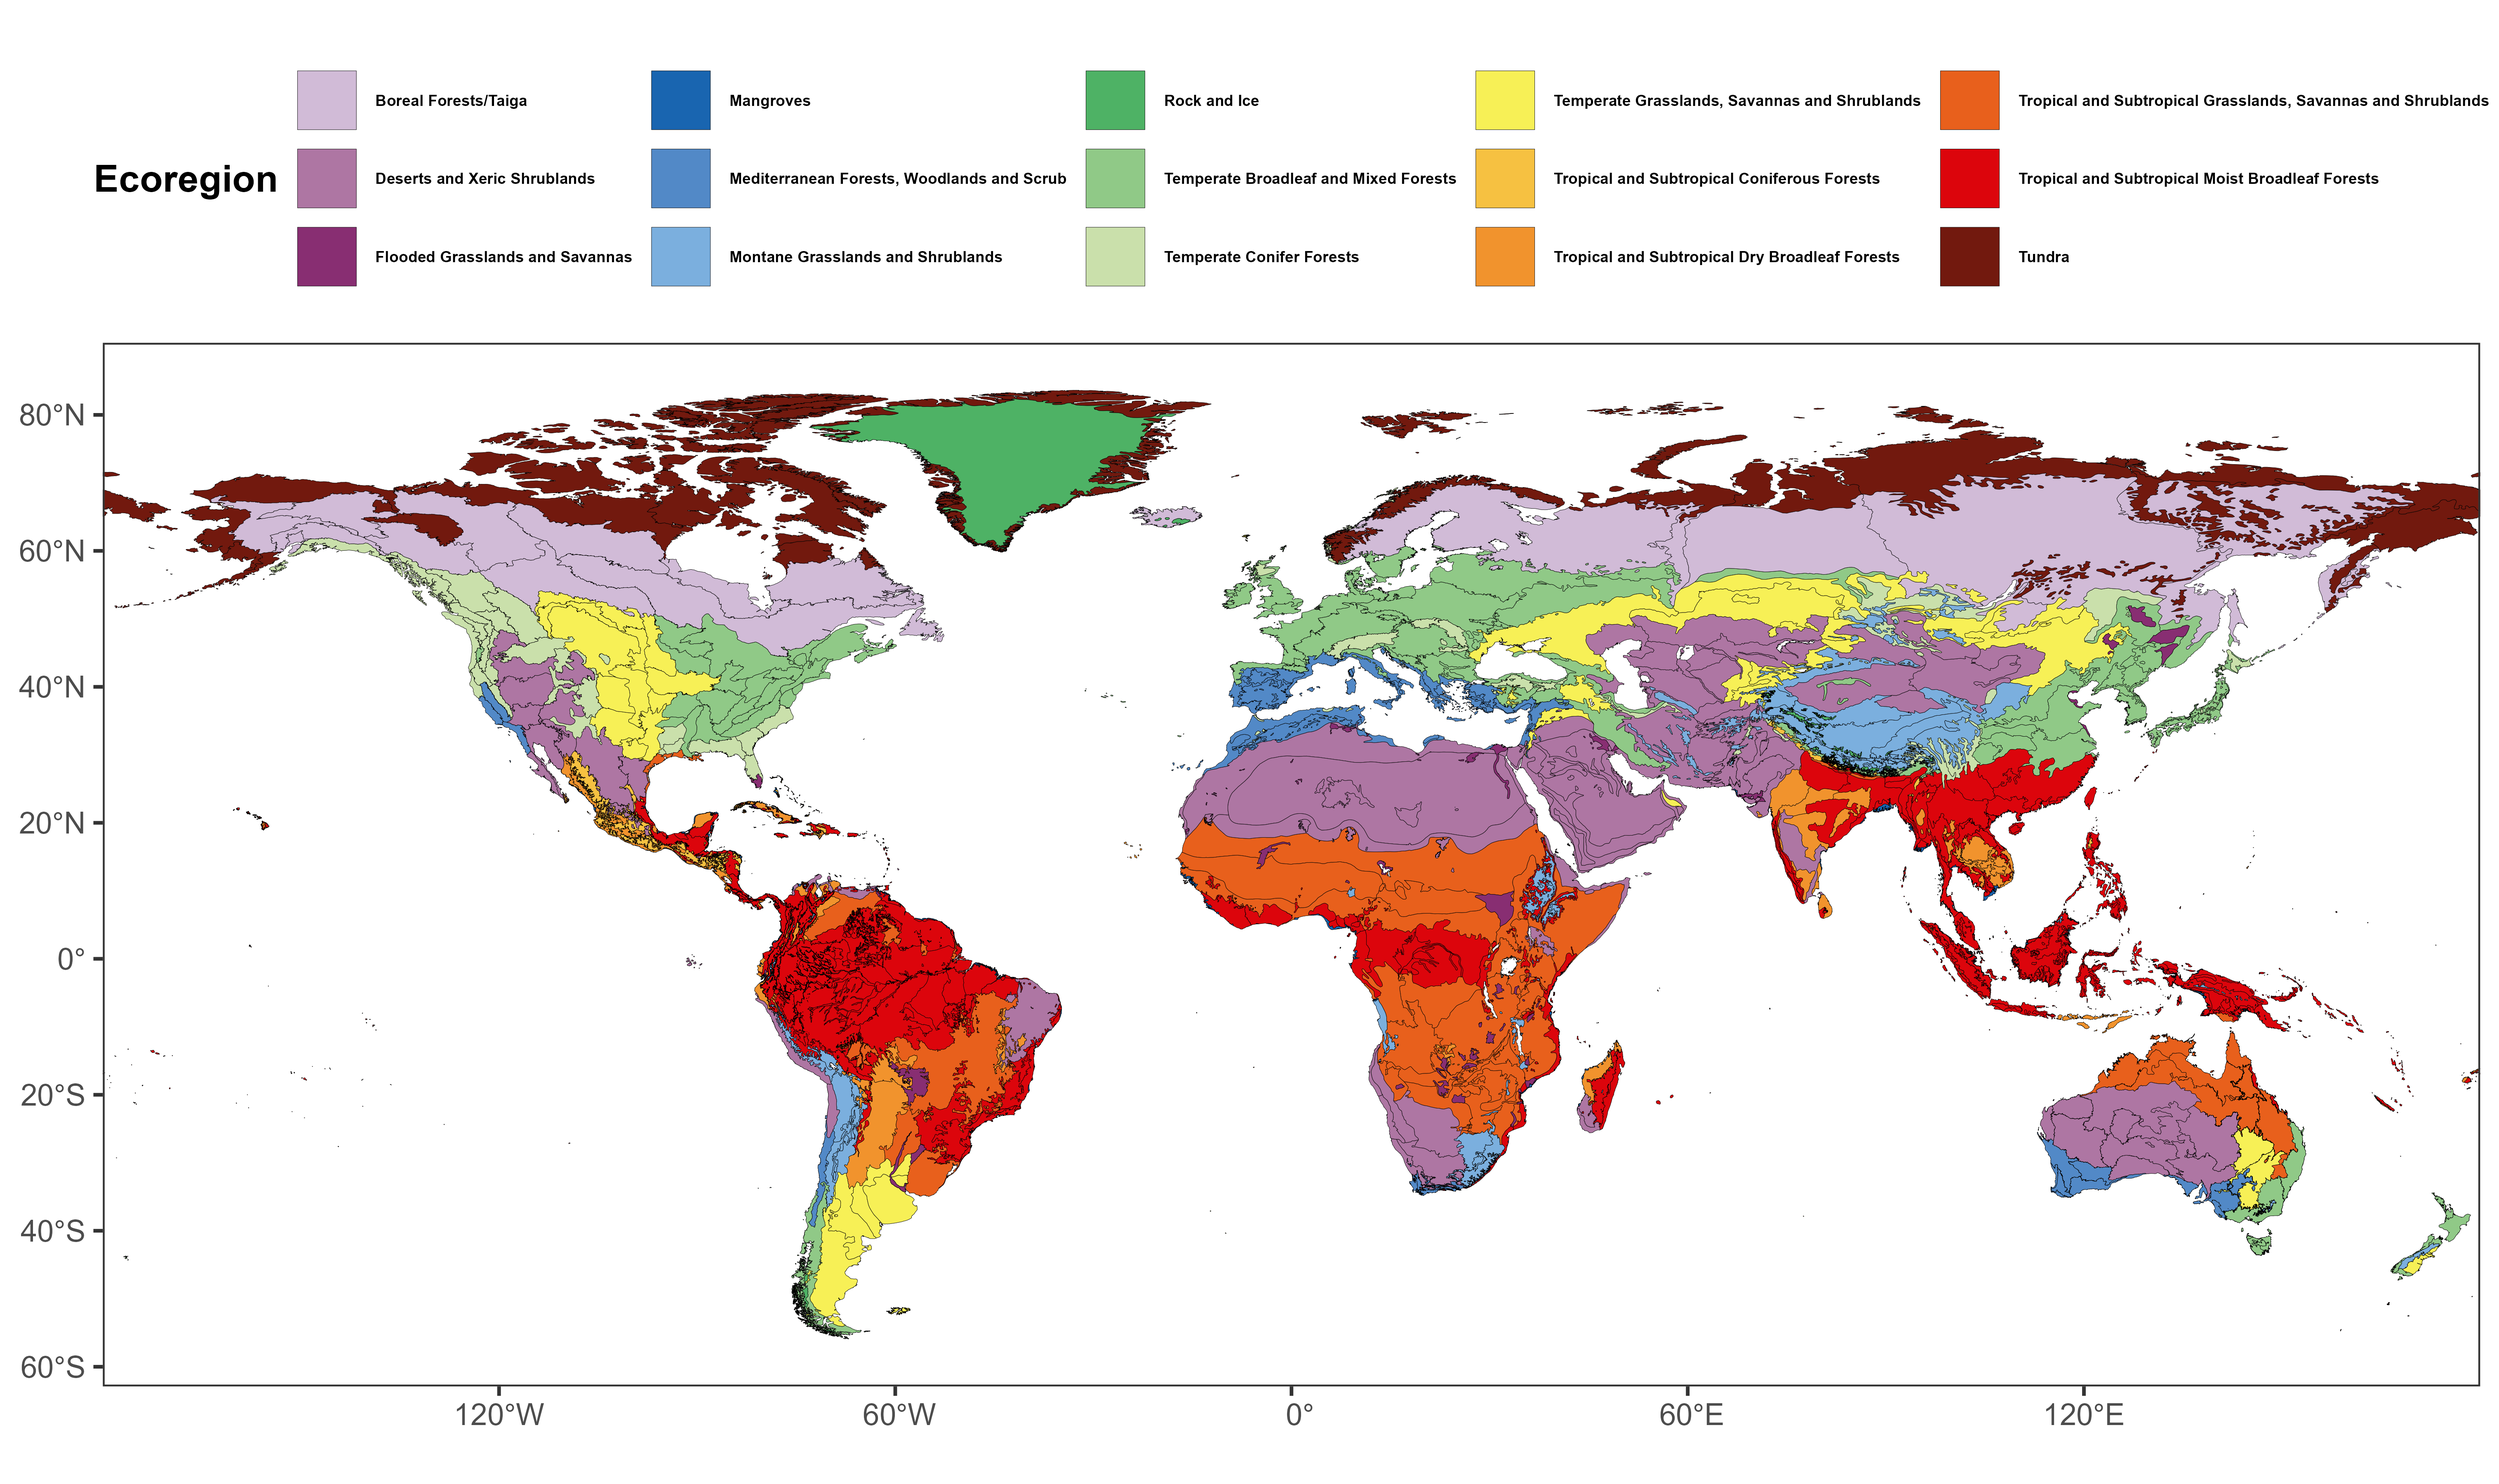
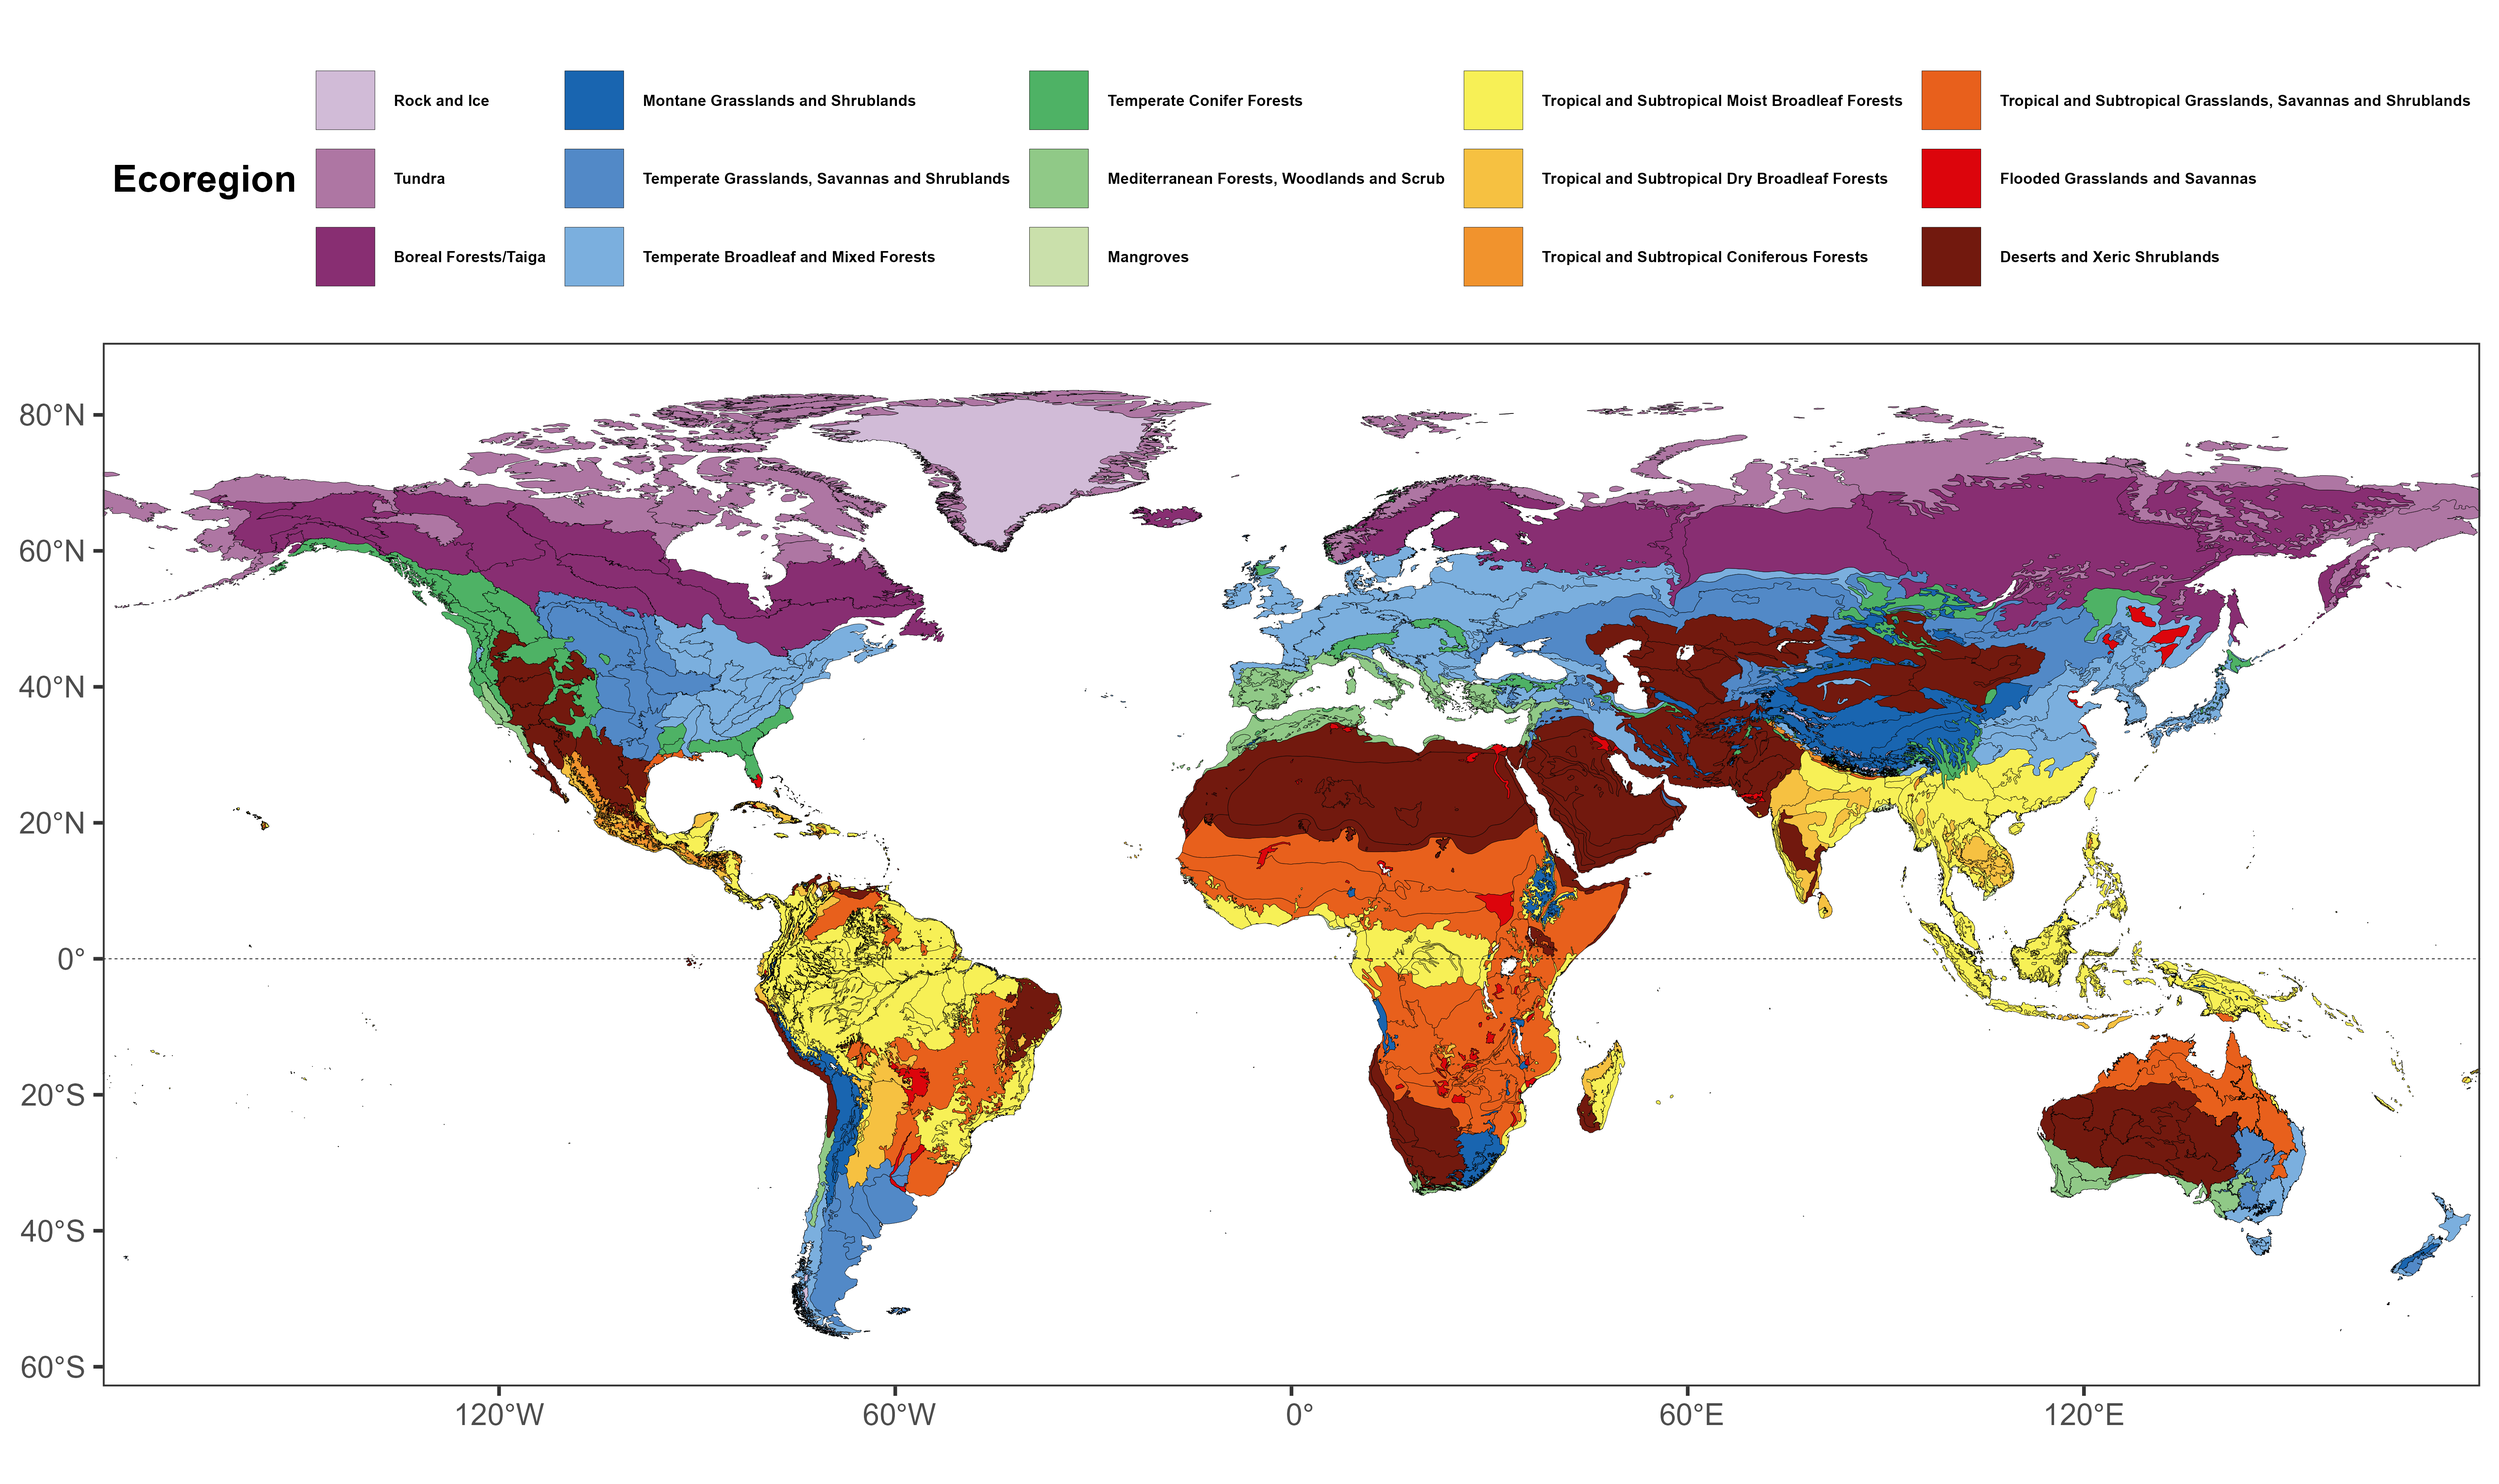
reordered ecoregions; numbered figure scripts

diff --git a/analysis/README.md b/analysis/README.md
@@ -1,1 +1,6 @@
-This folder contains all `R` scripts used in this project.
+This folder contains all `R` scripts used in this project. The scripts are numbered in the order they should be ran in. The scripts in `analysis/figures` follow the same numbering as the scripts in `anlysis`.
+
+* < 010: setup
+* < 020: modeling mean NDVI
+* < 030: modeling variance in NDVI for a given mean
+

diff --git a/analysis/figures/REAMDE.md b/analysis/figures/REAMDE.md
@@ -1,0 +1,1 @@
+This folder contains the main `R` scripts for creating the figures for this project. The scripts are numbered in the order as the scripts in the main `anlysis` folder.
